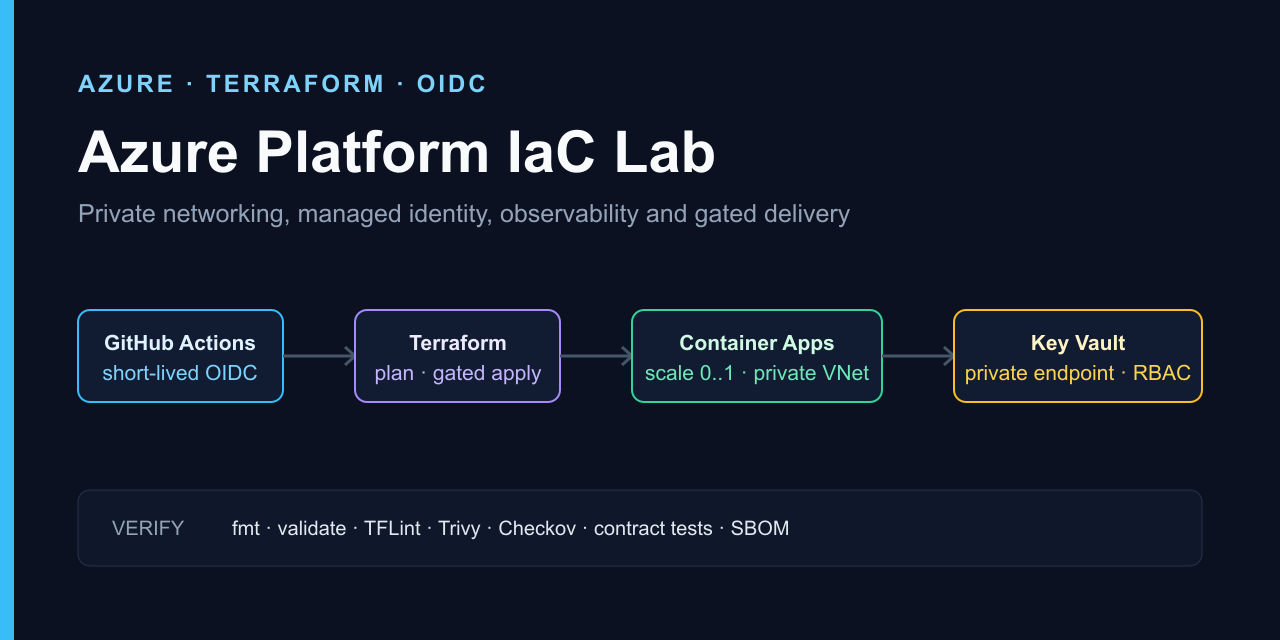
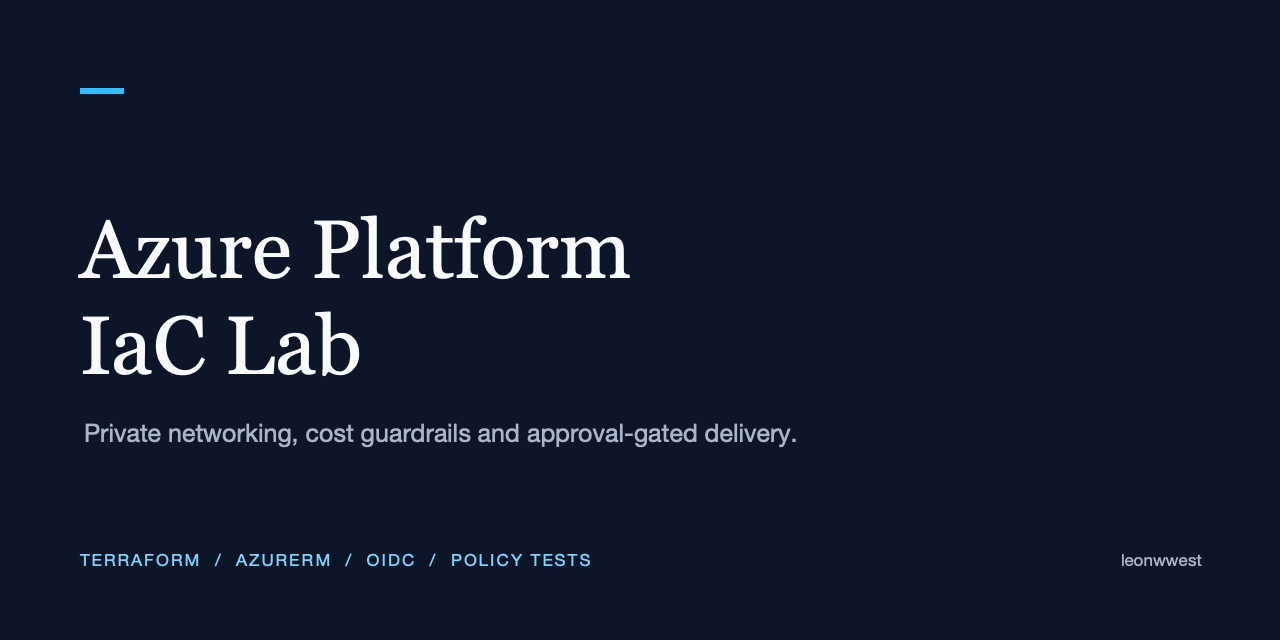
feat: enforce Azure platform guardrails (#8)

diff --git a/tests/test_portfolio_contract.py b/tests/test_portfolio_contract.py
@@ -29,7 +29,7 @@ class PortfolioContractTests(unittest.TestCase):
     def test_workload_is_small_and_scales_to_zero(self) -> None:
         main = self.read("terraform/main.tf")
         self.assertIn("min_replicas = 0", main)
-        self.assertIn("max_replicas = 1", main)
+        self.assertIn("max_replicas = var.max_replicas", main)
         self.assertIn("cpu    = 0.25", main)
         self.assertIn('memory = "0.5Gi"', main)
 
@@ -76,6 +76,20 @@ class PortfolioContractTests(unittest.TestCase):
             if path.suffix.lower() not in {".tf", ".yml", ".yaml", ".md", ".sh"}:
                 continue
             self.assertIsNone(suspicious.search(path.read_text(encoding="utf-8")), path)
+
+    def test_policy_guardrails_are_explicit_and_actionable(self) -> None:
+        variables = self.read("terraform/variables.tf")
+        locals_file = self.read("terraform/locals.tf")
+        policy_tests = self.read("terraform/tests/policy.tftest.hcl")
+
+        self.assertIn("germanywestcentral", variables)
+        self.assertIn("westeurope", variables)
+        self.assertIn('for key in ["owner", "cost-center", "purpose"]', variables)
+        self.assertIn("var.max_replicas <= 3", variables)
+        self.assertIn("var.monthly_budget_eur <= 100", variables)
+        self.assertIn("merge(var.governance_tags", locals_file)
+        self.assertIn("reject_unapproved_region", policy_tests)
+        self.assertIn("reject_missing_governance_tag", policy_tests)
 
 
 if __name__ == "__main__":

diff --git a/README.md b/README.md
@@ -17,7 +17,7 @@ A deployable, portfolio-scale Azure Container Apps platform built with Terraform
 | How does CI authenticate? | The [plan](.github/workflows/terraform-plan.yml) and [apply](.github/workflows/terraform-apply.yml) workflows exchange GitHub OIDC tokens with Microsoft Entra; no client secret is stored |
 | How is delivery controlled? | Pull requests validate and plan; apply is manual, requires the exact `apply` confirmation and uses a protected GitHub environment |
 | How are costs constrained? | Scale-to-zero, one-replica default, small CPU/memory allocation, optional resource-group budget and a documented teardown command |
-| What is verified? | [GitHub Actions](.github/workflows/verify.yml) runs Terraform format and validation, TFLint, Trivy, Checkov and repository contract tests |
+| What is verified? | [GitHub Actions](.github/workflows/verify.yml) runs Terraform format and validation, native policy tests, TFLint, Trivy, Checkov and repository contract tests |
 
 ## Architecture
 
@@ -46,6 +46,7 @@ The plan and apply identities are intentionally separate. The plan identity shou
 - No Azure client secrets in GitHub.
 - `terraform apply` requires the workflow input `apply` and the `production` environment.
 - Container Apps defaults to zero minimum replicas and one maximum replica.
+- Terraform policy rejects unapproved regions, incomplete governance tags, more than three replicas and a lab budget above EUR 100.
 - Key Vault uses Azure RBAC; the workload receives `Key Vault Secrets User`, not broad ownership.
 - Key Vault public access is disabled; resolution and traffic use Private DNS and a dedicated private-endpoint subnet.
 - Destructive cleanup is explicit and documented.
@@ -58,6 +59,7 @@ terraform/                  Azure resources and environment variables
 scripts/bootstrap-oidc.sh  Idempotent OIDC bootstrap helper
 scripts/demo.sh            Read-only evidence collection after deployment
 tests/                     Static portfolio and safety contract tests
+terraform/tests/           Native policy-as-code scenarios with mocked AzureRM
 .github/workflows/         Verification, OIDC plan and gated apply
 docs/                      Architecture decisions, runbook and evidence
 ```
@@ -97,6 +99,9 @@ The helper creates separate plan and apply managed identities plus federated cre
 ## Verification evidence
 
 The green workflow badge links to the latest CI run. The [verification workflow](.github/workflows/verify.yml) executes the same Terraform and security checks documented above on every pull request and push to `main`.
+
+The committed [policy verification matrix](docs/evidence/policy-verification.md) distinguishes
+offline guardrail evidence from optional live Azure deployment evidence.
 
 The recording below captures Terraform format and validation plus the repository contract tests running against this codebase.
 

diff --git a/docs/evidence/policy-verification.md b/docs/evidence/policy-verification.md
@@ -1,0 +1,15 @@
+# Policy verification evidence
+
+This is static, subscription-free evidence. The CI workflow executes `terraform test` against
+mocked AzureRM resources and proves these policy outcomes:
+
+| Scenario | Expected result |
+|---|---|
+| `germanywestcentral`, complete tags, one replica, EUR 25 budget | plan accepted |
+| unapproved region | rejected at `var.location` |
+| missing `cost-center` tag | rejected at `var.governance_tags` |
+| four replicas | rejected at `var.max_replicas` |
+| EUR 101 monthly budget | rejected at `var.monthly_budget_eur` |
+
+This file does not claim an Azure deployment. Live evidence is generated separately by the
+read-only `scripts/demo.sh` after an explicitly approved deployment.

diff --git a/docs/debugging/azurerm-v5-private-dns.md b/docs/debugging/azurerm-v5-private-dns.md
@@ -1,0 +1,17 @@
+# Debugging story: AzureRM v5 private DNS link migration
+
+## Symptom
+
+Provider validation failed after the AzureRM v5 upgrade because the private DNS virtual-network
+link still used the removed resource-group and zone-name arguments.
+
+## Diagnosis and fix
+
+The v5 resource contract requires `private_dns_zone_id`. The link now references
+`azurerm_private_dns_zone.key_vault.id`, and the repository contract test prevents the removed
+arguments from returning.
+
+## Prevention
+
+Provider upgrades run Terraform validation, native policy tests and the static regression suite in
+one pull request before merge.

diff --git a/docs/adr/0001-terraform-native-guardrails.md b/docs/adr/0001-terraform-native-guardrails.md
@@ -1,0 +1,12 @@
+# ADR 0001: Enforce portfolio guardrails with Terraform-native policy tests
+
+## Decision
+
+Region, required tags, maximum scale and budget bounds are variable validations. Native
+`terraform test` scenarios prove both accepted defaults and actionable rejection paths.
+
+## Consequences
+
+The rules run offline and during normal Terraform verification without a separate policy runtime.
+They govern this module, not an Azure management group; organization-wide enforcement would add
+Azure Policy assignments at the platform boundary.

diff --git a/docs/adr/0002-separate-plan-and-apply-identities.md b/docs/adr/0002-separate-plan-and-apply-identities.md
@@ -1,0 +1,12 @@
+# ADR 0002: Separate plan and apply identities
+
+## Decision
+
+GitHub OIDC uses distinct environment identities for planning and applying. Apply is a manual
+workflow with an exact confirmation input and a protected `production` environment.
+
+## Consequences
+
+Pull-request verification does not require a stored client secret or standing write credential.
+The apply identity still needs carefully scoped Azure roles and its federated trust must be
+reviewed as part of platform onboarding.
